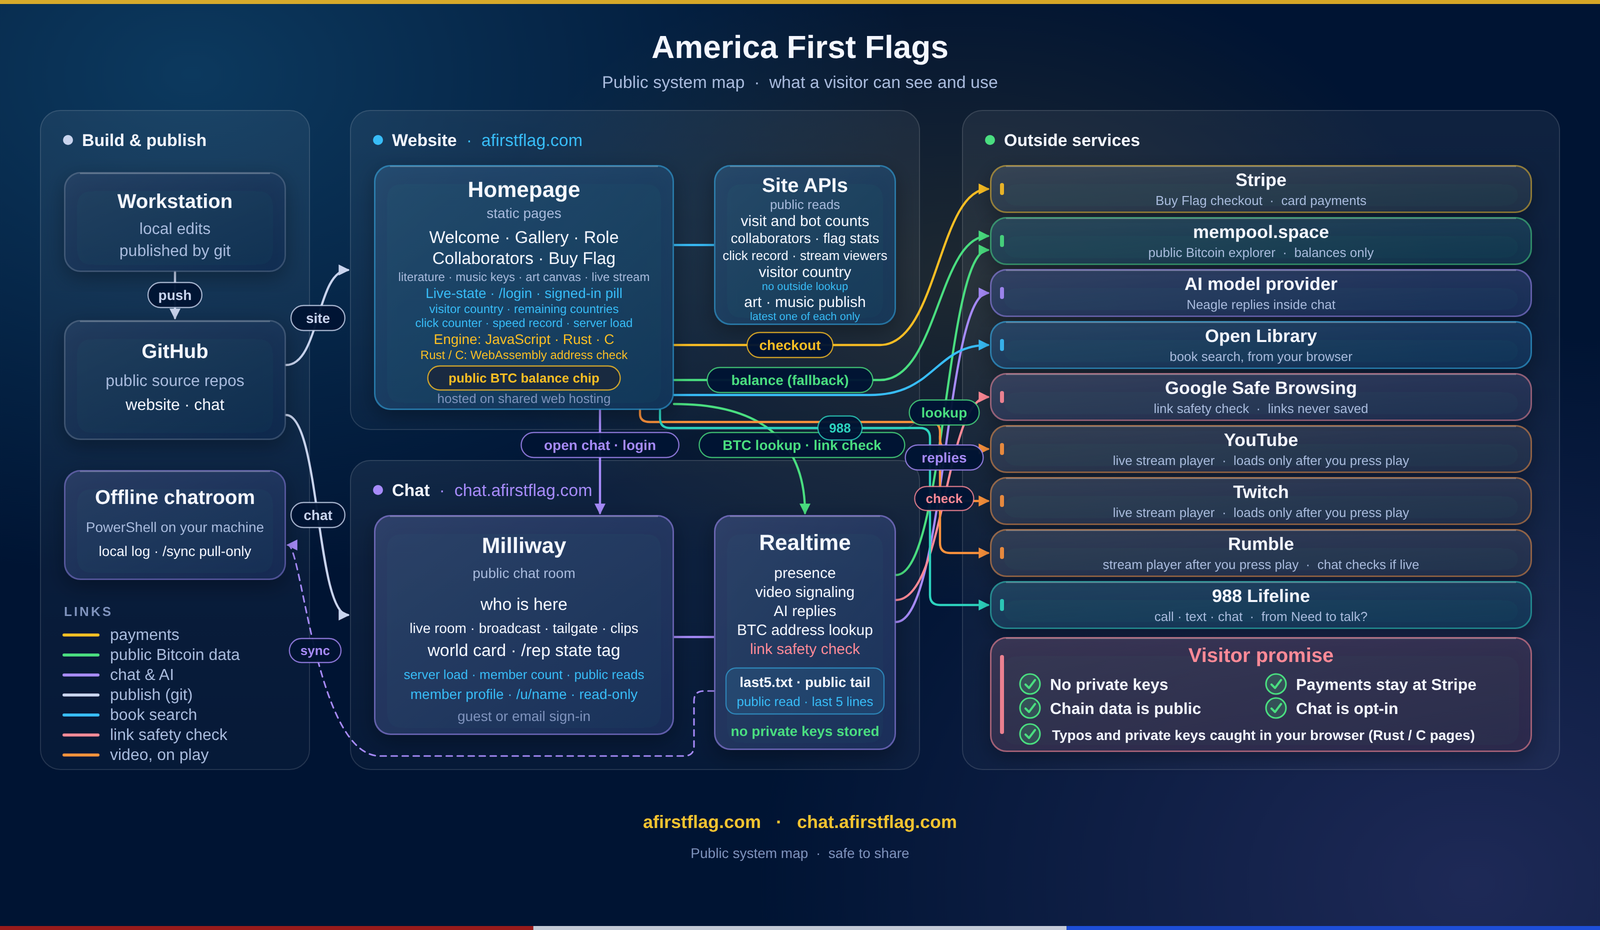
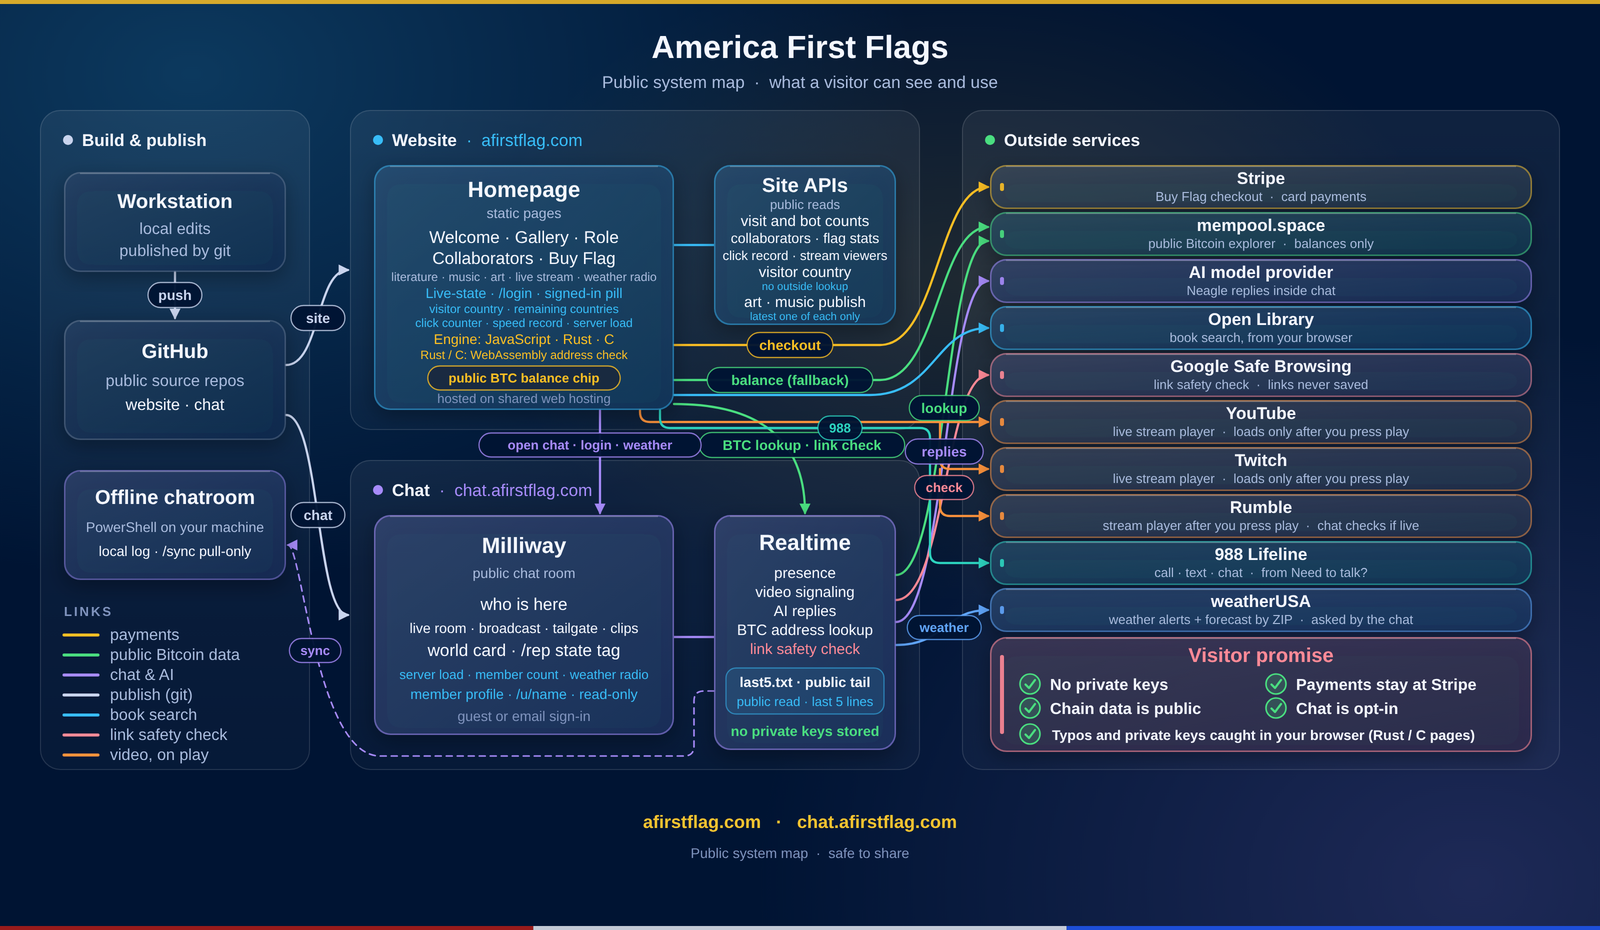
CHG-146: Weather Radio drawer text brightened to the site's light drawer colours (WCAG AA); public map rev 25 promoted (weatherUSA / Weather Radio), ?v=134 -> ?v=145, alt text rev 25 (Shop)

diff --git a/index.html b/index.html
@@ -937,7 +937,7 @@
 
     /* CHG-145: Weather Radio drawer (alerts read aloud; reuses .drawer chrome) below Live Stream */
     .wx-wrap { flex-shrink: 0; margin: 0 16px 8px; }
-    .wx-card { max-width: 720px; margin: 0 auto; display: flex; flex-direction: column; gap: 10px; }
+    .wx-card { max-width: 720px; margin: 0 auto; display: flex; flex-direction: column; gap: 10px; color: #e6ecf8; } /* CHG-146: light text like the other drawers (body color is #111) */
     .wx-row { display: flex; flex-wrap: wrap; align-items: center; gap: 10px; }
     .wx-switch { display: inline-flex; align-items: center; gap: 8px; padding: 6px 14px; border-radius: 999px; border: 1px solid rgba(255,255,255,0.25);
       background: rgba(255,255,255,0.08); color: inherit; font: inherit; font-weight: 700; cursor: pointer; min-height: 36px; }
@@ -945,17 +945,18 @@
     .wx-switch[aria-checked="true"] { background: rgba(251,191,36,0.22); border-color: #fbbf24; color: #fbbf24; }
     .wx-switch[aria-checked="true"] .wx-dot { background: #22c55e; box-shadow: 0 0 8px #22c55e; }
     .wx-zip { width: 7.5em; padding: 7px 10px; border-radius: 10px; border: 1px solid rgba(255,255,255,0.25); background: rgba(0,0,0,0.25);
-      color: inherit; font: inherit; font-size: 16px; letter-spacing: 0.06em; }
-    .wx-zip.wx-suggest { color: #9ca3af; font-style: italic; }
-    .wx-hint { font-size: 12px; opacity: 0.75; }
-    .wx-status { font-size: 13px; opacity: 0.85; min-height: 1.2em; }
+      color: #f4f7ff; font: inherit; font-size: 16px; letter-spacing: 0.06em; }
+    .wx-zip::placeholder { color: #a9b6d0; opacity: 1; }
+    .wx-zip.wx-suggest { color: #aab4c6; font-style: italic; }
+    .wx-hint { font-size: 12px; color: #c7d2e8; }
+    .wx-status { font-size: 13px; color: #d6deef; min-height: 1.2em; }
     .wx-alerts { list-style: none; margin: 0; padding: 0; display: flex; flex-direction: column; gap: 8px; }
-    .wx-alerts li { padding: 8px 12px; border-radius: 10px; background: rgba(239,68,68,0.14); border-left: 3px solid #ef4444; font-size: 14px; }
+    .wx-alerts li { padding: 8px 12px; border-radius: 10px; background: rgba(239,68,68,0.14); border-left: 3px solid #ef4444; font-size: 14px; color: #f4f7ff; }
     .wx-alerts li strong { display: block; margin-bottom: 2px; }
     .wx-alerts li.wx-none { background: rgba(34,197,94,0.12); border-left-color: #22c55e; }
-    .wx-fc { font-size: 14px; opacity: 0.9; }
-    .wx-attr { font-size: 12px; opacity: 0.7; }
-    .wx-attr a { color: inherit; }
+    .wx-fc { font-size: 14px; color: #e6ecf8; }
+    .wx-attr { font-size: 12px; color: #c7d2e8; }
+    .wx-attr a { color: #f4c430; }
 
     /* CHG-108: Live Stream drawer (YouTube, click-to-load facade) below Art */
     .ls-wrap {
@@ -1913,10 +1914,10 @@
       </button>
       <div class="drawer-body" id="how-panel">
         <p class="how-lede">Public system map: what a visitor can see and use. Tap the map to open it full size.</p>
-        <a class="how-map" href="/images/architecture-public.png?v=134" target="_blank" rel="noopener">
+        <a class="how-map" href="/images/architecture-public.png?v=145" target="_blank" rel="noopener">
           <picture>
-            <source srcset="/images/architecture-public.webp?v=134" type="image/webp">
-            <img src="/images/architecture-public.png?v=134" width="1600" height="930" loading="lazy" decoding="async" alt="Public system map of America First Flags (rev 23). The website, afirstflag.com, serves the homepage sections (welcome, gallery, role, collaborators, and Buy Flag, plus a public BTC balance chip) and site APIs for visit and bot counts, collaborators, flag stats, the click speed record, art publish, music publish, stream viewers, and the visitor country (looked up on the site, no outside lookup). The chat, chat.afirstflag.com, is the Milliway public chat room with realtime presence, video signaling, AI replies, BTC address lookup, and a link safety check, and stores no private keys. Each registered chat member also has a read-only public profile page on the chat (chat.afirstflag.com/u/name) that shows only the username, the Member tier, and the join date. Outside services: Stripe for Buy Flag checkout and card payments, mempool.space as the public Bitcoin explorer for balances only, an AI model provider for Neagle replies inside chat, Google Safe Browsing for the link safety check, and YouTube, Twitch, and Rumble as live stream players (they load only after you press play). Both sites are published from a workstation through public GitHub repos. Visitor promise: no private keys, payments stay at Stripe, chain data is public, chat is opt-in. The homepage Live-state panel has a /login command that opens chat sign-in. The chat publishes a public tail of the last 5 public chat lines (last5.txt), and an offline chatroom on the owner's machine pulls that tail with /sync. The Live-state panel also shows a signed-in pill, and signed-in chat members can add a state tag with /rep. The Live-state panel also has an Engine row (Run page in JavaScript, Rust, or C); the Rust and C pages check Bitcoin addresses in the visitor's browser with WebAssembly before any lookup is sent, so typos and private keys are caught there on those pages. The Live-state panel also has a click counter that stays in the visitor's browser (browser-local storage); its best click speed runs can set a site-wide click speed record kept by the site APIs, and the Buy Flag window rotates its cards while open. The Live-state panel also shows a visitor country pill with a flag, found from the visitor's IP address in a database kept on the site, so the address is not sent to any outside service. A remaining countries pill shows how many countries no visitor has come from yet. The Live-state panel also shows the chat server load, read from a public read-only feed on the chat. It also shows how many members the chat has, a number only, read from the chat. The chat's broadcast card can switch to a Tailgate Party that plays Nick Fuentes's Rumble live stream; the chat checks Rumble's public channel page every few minutes to see whether he is live. Anyone in the chat can clip a short moment of the room's chat and share it as a link with a preview picture; the people named in the clip appear on that picture. The homepage also has a literature search: the visitor's browser asks Open Library, an outside book catalog, for books matching a title. The homepage also has a music keyboard that plays notes in the visitor's browser, with no outside requests. The homepage also has an art canvas: visitors draw in their browser, and can publish one drawing that replaces the previous one. Visitors can also publish one music recording that replaces the previous one. The homepage also has a Live Stream drawer: visitors can play a YouTube, Twitch, or Rumble stream, each loading only after they press play. The Live Stream drawer shows how many site visitors are watching each stream, counted on the site only. The homepage also has a Need to talk? button that links to the 988 Suicide &amp; Crisis Lifeline, an outside service, to call, text, or chat, and can open the public Milliway chat, where Neagle greets the visitor publicly.">
+            <source srcset="/images/architecture-public.webp?v=145" type="image/webp">
+            <img src="/images/architecture-public.png?v=145" width="1600" height="930" loading="lazy" decoding="async" alt="Public system map of America First Flags (rev 25). The website, afirstflag.com, serves the homepage sections (welcome, gallery, role, collaborators, and Buy Flag, plus a public BTC balance chip) and site APIs for visit and bot counts, collaborators, flag stats, the click speed record, art publish, music publish, stream viewers, and the visitor country (looked up on the site, no outside lookup). The chat, chat.afirstflag.com, is the Milliway public chat room with realtime presence, video signaling, AI replies, BTC address lookup, and a link safety check, and stores no private keys. Each registered chat member also has a read-only public profile page on the chat (chat.afirstflag.com/u/name) that shows only the username, the Member tier, and the join date. Outside services: Stripe for Buy Flag checkout and card payments, mempool.space as the public Bitcoin explorer for balances only, an AI model provider for Neagle replies inside chat, Google Safe Browsing for the link safety check, and YouTube, Twitch, and Rumble as live stream players (they load only after you press play). Both sites are published from a workstation through public GitHub repos. Visitor promise: no private keys, payments stay at Stripe, chain data is public, chat is opt-in. The homepage Live-state panel has a /login command that opens chat sign-in. The chat publishes a public tail of the last 5 public chat lines (last5.txt), and an offline chatroom on the owner's machine pulls that tail with /sync. The Live-state panel also shows a signed-in pill, and signed-in chat members can add a state tag with /rep. The Live-state panel also has an Engine row (Run page in JavaScript, Rust, or C); the Rust and C pages check Bitcoin addresses in the visitor's browser with WebAssembly before any lookup is sent, so typos and private keys are caught there on those pages. The Live-state panel also has a click counter that stays in the visitor's browser (browser-local storage); its best click speed runs can set a site-wide click speed record kept by the site APIs, and the Buy Flag window rotates its cards while open. The Live-state panel also shows a visitor country pill with a flag, found from the visitor's IP address in a database kept on the site, so the address is not sent to any outside service. A remaining countries pill shows how many countries no visitor has come from yet. The Live-state panel also shows the chat server load, read from a public read-only feed on the chat. It also shows how many members the chat has, a number only, read from the chat. The chat's broadcast card can switch to a Tailgate Party that plays Nick Fuentes's Rumble live stream; the chat checks Rumble's public channel page every few minutes to see whether he is live. Anyone in the chat can clip a short moment of the room's chat and share it as a link with a preview picture; the people named in the clip appear on that picture. The homepage also has a literature search: the visitor's browser asks Open Library, an outside book catalog, for books matching a title. The homepage also has a music keyboard that plays notes in the visitor's browser, with no outside requests. The homepage also has an art canvas: visitors draw in their browser, and can publish one drawing that replaces the previous one. Visitors can also publish one music recording that replaces the previous one. The homepage also has a Live Stream drawer: visitors can play a YouTube, Twitch, or Rumble stream, each loading only after they press play. The Live Stream drawer shows how many site visitors are watching each stream, counted on the site only. The homepage also has a Need to talk? button that links to the 988 Suicide &amp; Crisis Lifeline, an outside service, to call, text, or chat, and can open the public Milliway chat, where Neagle greets the visitor publicly. The homepage also has a Weather Radio drawer that reads active weather alerts and a short forecast aloud in the visitor's browser. The chat server gets them from weatherUSA, an outside weather service, for a ZIP code. If the visitor doesn't type a ZIP, the chat server estimates a nearby one from the visitor's IP address with a database kept on the server, so the address is not sent to any outside service; a typed ZIP stays in the visitor's browser.">
           </picture>
         </a>
       </div>
@@ -2577,7 +2578,7 @@
           <div class="wx-card">
             <div class="wx-row">
               <button type="button" class="wx-switch" id="wx-power" role="switch" aria-checked="false"><span class="wx-dot" aria-hidden="true"></span><span id="wx-power-label">Off</span></button>
-              <label for="wx-zip" class="wx-hint" style="opacity:1">ZIP</label>
+              <label for="wx-zip" class="wx-hint">ZIP</label>
               <input type="text" id="wx-zip" class="wx-zip" inputmode="numeric" pattern="[0-9]{5}" maxlength="5" autocomplete="postal-code" placeholder="Enter your ZIP" aria-describedby="wx-hint">
               <span class="wx-hint" id="wx-hint"></span>
             </div>
